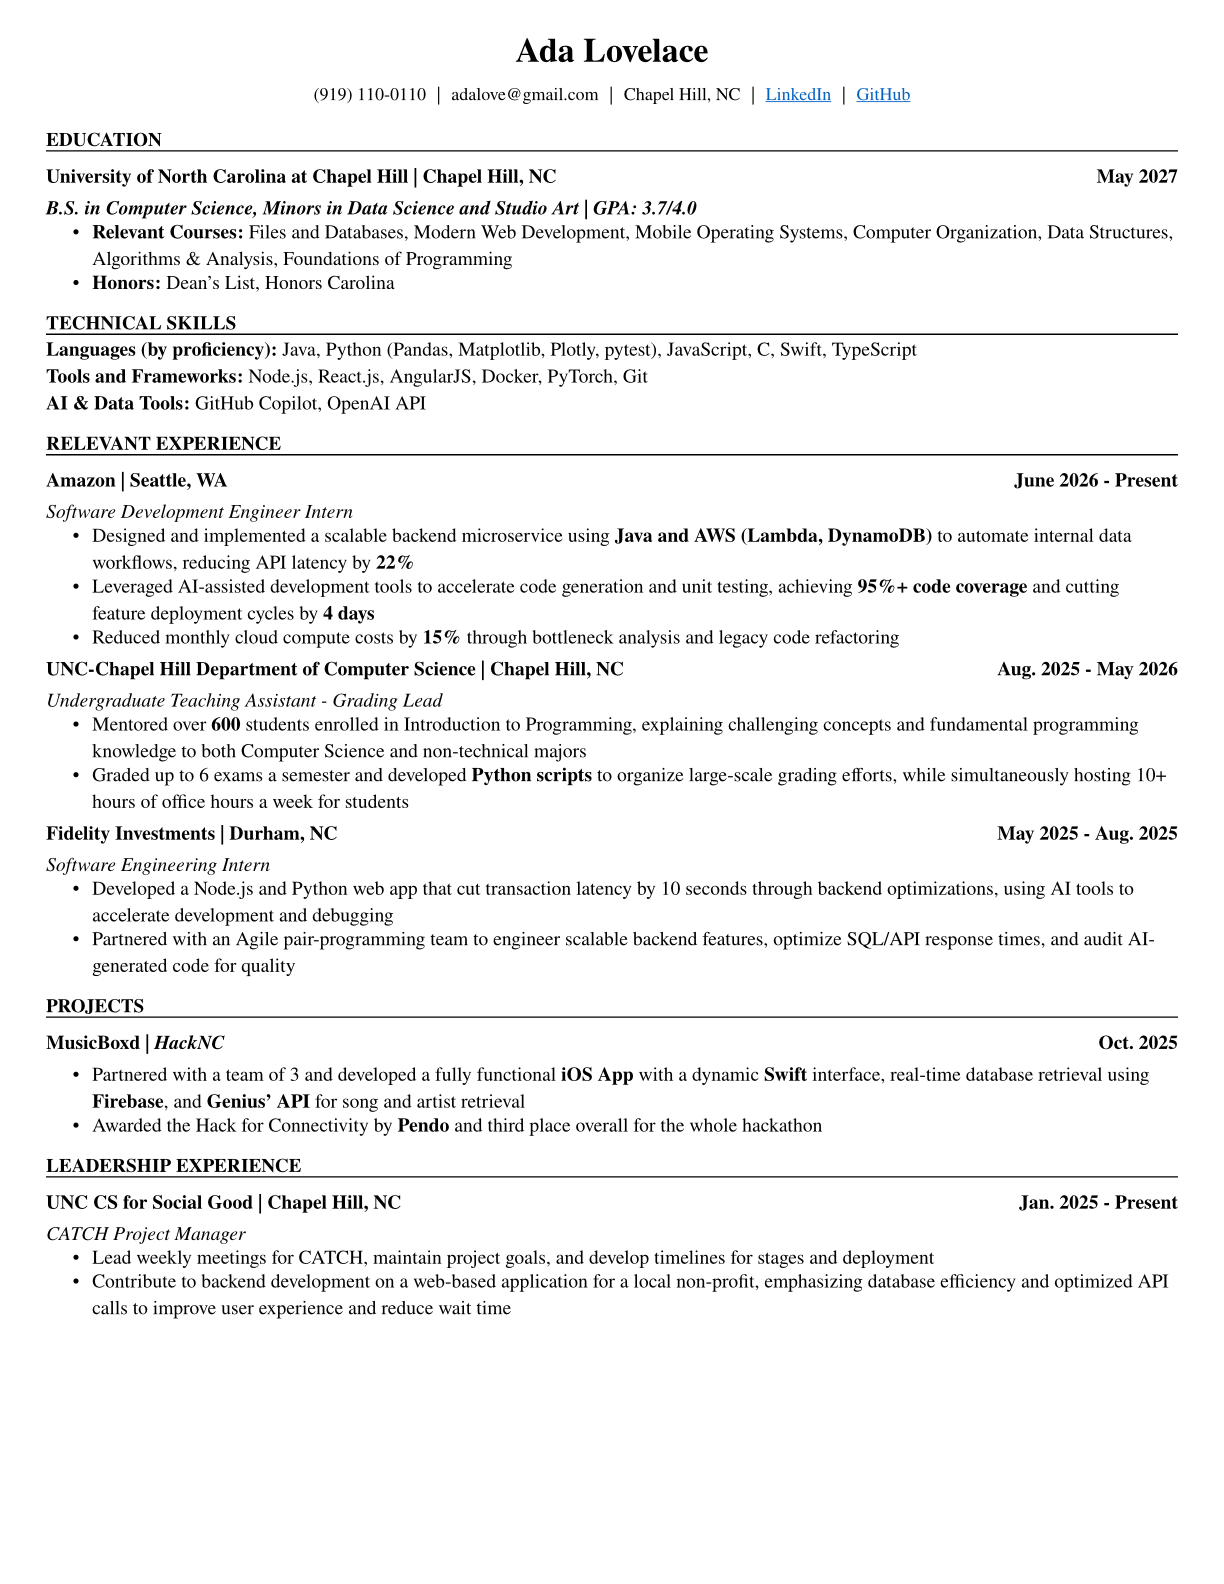
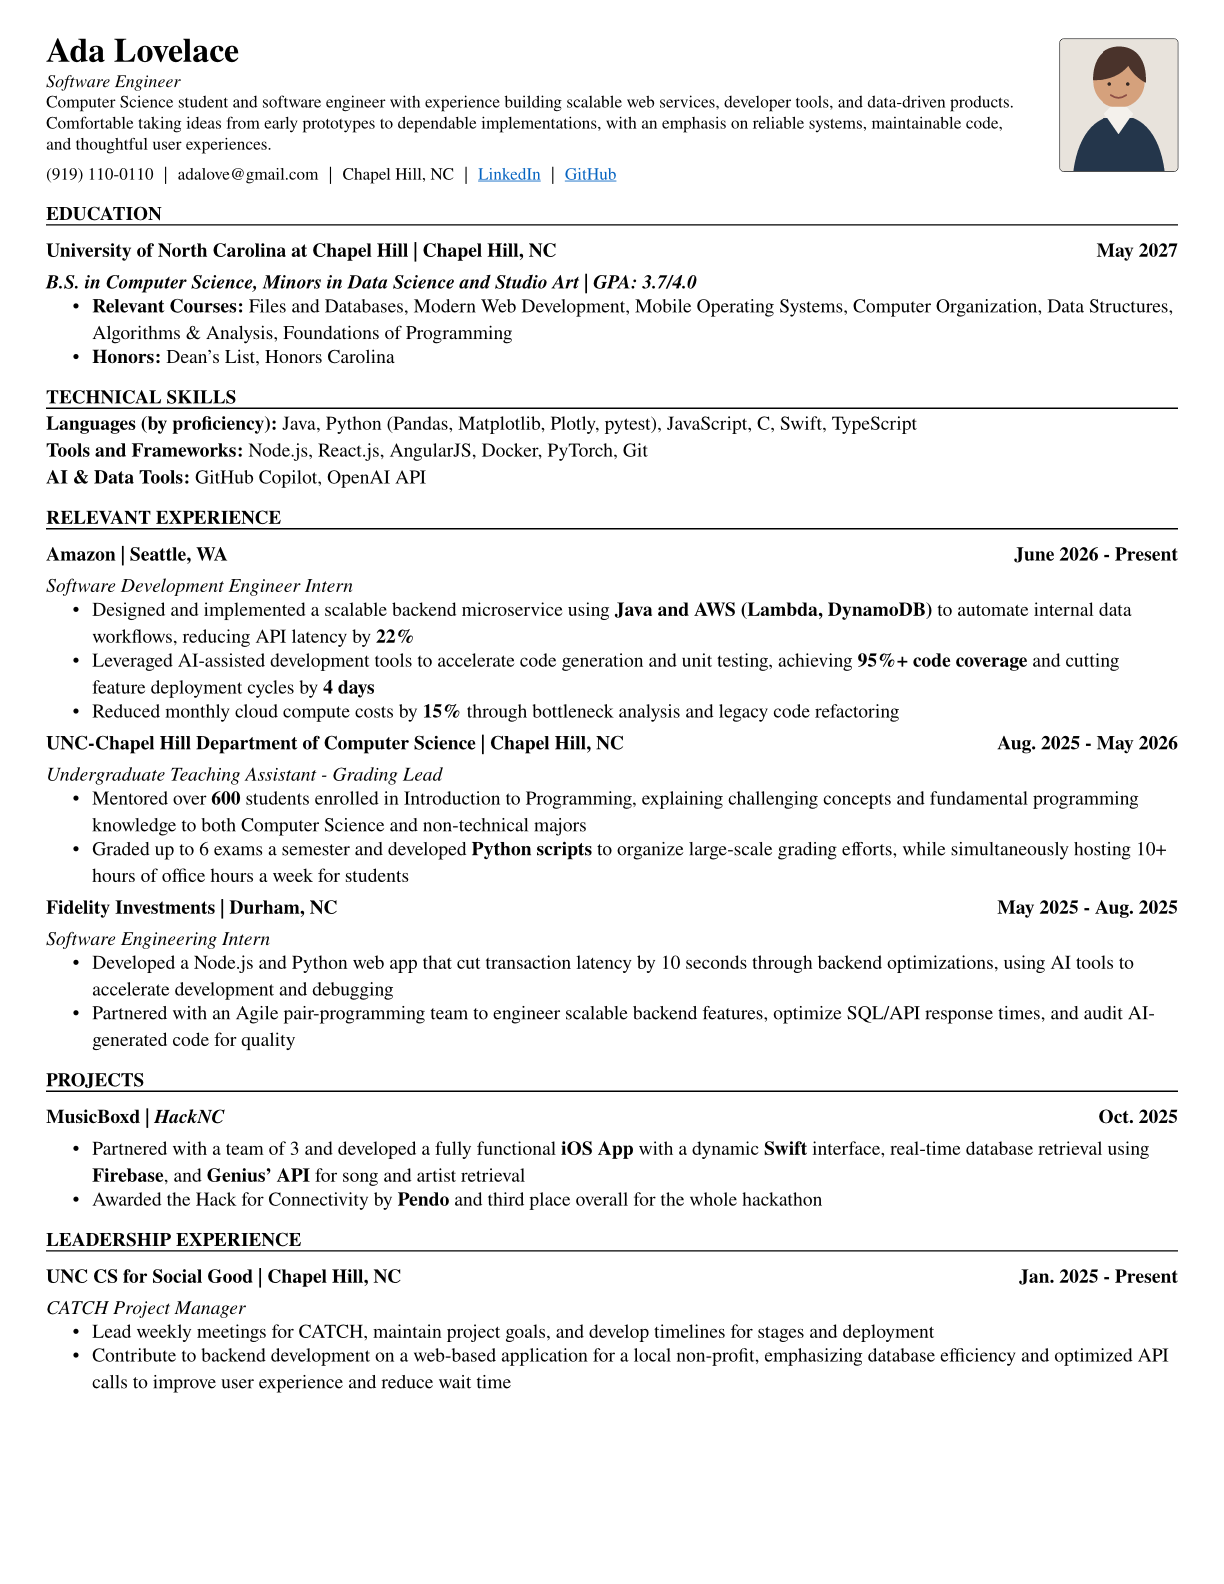
Redesign resume header

Changed region(s): [[0.031, 0.0, 0.9624, 0.8971], [0.7451, 0.7115, 0.9624, 0.7734]]

diff --git a/README.md b/README.md
@@ -7,10 +7,15 @@ A compact Typst resume template with a traditional, single-column layout.
 ## Usage
 
 ```typst
-#import "@local/simple-resume:0.1.0": resume
+#import "@local/simple-resume:0.1.1": resume
 
 #show: resume.with(
   name: "Ada Lovelace",
+  tagline: "Software Engineer",
+  summary: [
+    Computer Science student focused on reliable systems and thoughtful user
+    experiences.
+  ],
   phone: "+1 555 0100",
   email: "ada@example.com",
   address: "London, UK",
@@ -23,6 +28,7 @@ A compact Typst resume template with a traditional, single-column layout.
 Your resume content goes here.
 ```
 
-`photo` accepts content such as `image("photo.jpg")`. When present, it is cropped
-to a circular portrait in the upper-right corner. Only `resume` is exported;
-sections and entries use regular Typst content.
+`tagline`, `summary`, and `photo` are optional. `photo` accepts content such as
+`image("photo.jpg")` and is cropped to a bordered portrait without changing its
+aspect ratio. Only `resume` is exported; sections and entries use regular Typst
+content.
